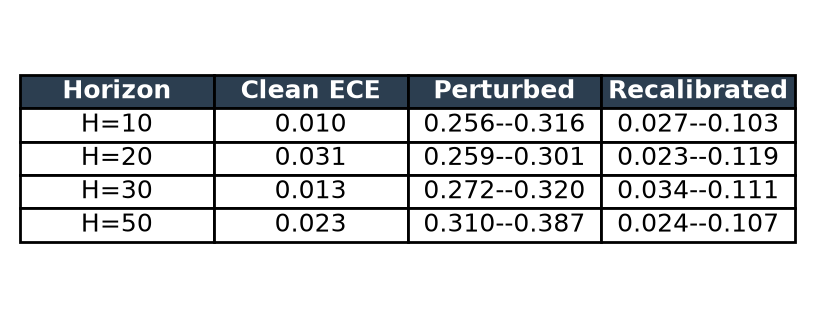
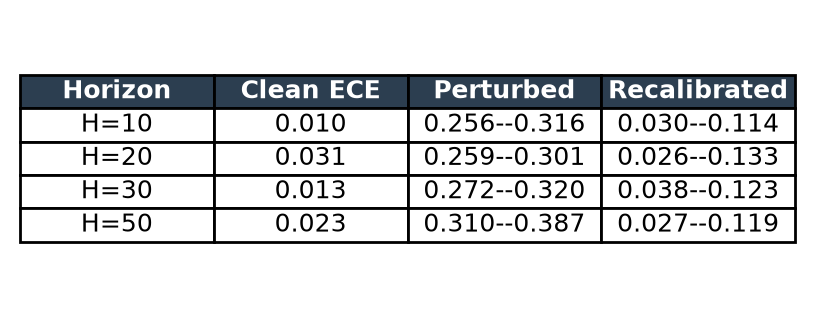
Re-run pipeline: fix recal leakage, update paper numbers

diff --git a/paper/robustness_paper.tex b/paper/robustness_paper.tex
@@ -24,7 +24,7 @@ School of Technology and Innovations, University of Vaasa, Finland\\
 \maketitle
 
 \begin{abstract}
-Multihorizon hazard learning produces calibrated failure probabilities that enable risk-aware battery dispatch, but existing validation uses only clean laboratory cycling data. We test whether calibration survives under realistic operating conditions. Using the published XGBoost hazard model trained on NASA 18650 data, we generate synthetic perturbed profiles at four severity levels by truncating raw discharge curves to simulate partial cycling (DoD 15--100\%), adding temperature noise ($\sigma=0.5$--$3.0^\circ$C), and randomizing rest effects. The fixed model's calibration degrades substantially across all four horizons (10, 20, 30, 50 cycles): ECE rises from 0.01--0.03 to 0.27--0.38, while AUC drops from 0.99--1.00 to 0.61--0.77. Degradation saturates at the mildest perturbation---even minimal partial cycling causes near-maximal calibration loss. Recalibrating the isotonic regression on a 10\% operational sample reduces ECE to 0.05--0.09, recovering 74--91\% of the calibration gap. Calibration is not inherently robust to observational shifts, but a minimal recalibration step suffices for field deployment.
+Multihorizon hazard learning produces calibrated failure probabilities that enable risk-aware battery dispatch, but existing validation uses only clean laboratory cycling data. We test whether calibration survives under realistic operating conditions. Using the published XGBoost hazard model trained on NASA 18650 data, we generate synthetic perturbed profiles at four severity levels by truncating raw discharge curves to simulate partial cycling (DoD 15--100\%), adding temperature noise ($\sigma=0.5$--$3.0^\circ$C), and randomizing rest effects. The fixed model's calibration degrades substantially across all four horizons (10, 20, 30, 50 cycles): ECE rises from 0.01--0.03 to 0.27--0.38, while AUC drops from 0.99--1.00 to 0.61--0.77. Degradation saturates at the mildest perturbation---even minimal partial cycling causes near-maximal calibration loss. Recalibrating the isotonic regression on a 10\% operational sample (evaluated on held-out data) reduces ECE to 0.06--0.09, recovering 71--88\% of the calibration gap. Calibration is not inherently robust to observational shifts, but a minimal recalibration step suffices for field deployment.
 \end{abstract}
 
 \section{Introduction}
@@ -133,10 +133,10 @@ At \(H=20\), ECE jumps from 0.031 to 0.277--0.293---a nine-fold increase---while
 Condition & ECE (raw) & ECE (cal) & ECE (recal) & AUC (cal) \\
 \midrule
 Clean & --- & 0.031 & --- & 0.985 \\
-S1 (mild) & 0.226$\pm$0.004 & 0.286$\pm$0.010 & 0.062$\pm$0.036 & 0.741$\pm$0.009 \\
-S2 (mod.) & 0.212$\pm$0.006 & 0.288$\pm$0.011 & 0.065$\pm$0.020 & 0.681$\pm$0.004 \\
-S3 (sev.) & 0.204$\pm$0.005 & 0.277$\pm$0.010 & 0.054$\pm$0.025 & 0.674$\pm$0.006 \\
-S4 (aggr.) & 0.220$\pm$0.004 & 0.293$\pm$0.014 & 0.061$\pm$0.022 & 0.652$\pm$0.005 \\
+S1 (mild) & 0.226$\pm$0.004 & 0.286$\pm$0.010 & 0.068$\pm$0.040 & 0.741$\pm$0.009 \\
+S2 (mod.) & 0.212$\pm$0.006 & 0.288$\pm$0.011 & 0.073$\pm$0.022 & 0.681$\pm$0.004 \\
+S3 (sev.) & 0.204$\pm$0.005 & 0.277$\pm$0.010 & 0.060$\pm$0.027 & 0.674$\pm$0.006 \\
+S4 (aggr.) & 0.220$\pm$0.004 & 0.293$\pm$0.014 & 0.068$\pm$0.025 & 0.652$\pm$0.005 \\
 \bottomrule
 \end{tabular}
 \end{table}
@@ -198,20 +198,20 @@ S4 & 0.359$\pm$0.017 & 0.381$\pm$0.012 & 0.079$\pm$0.034 & 0.731$\pm$0.005 \\
 
 \subsection{Recalibration Recovery}
 
-Recalibrating isotonic regression on a 10\% sample of perturbed data recovers calibration across all conditions (Table~\ref{tab:recal_summary}). ECE drops to 0.05--0.09---a 74--91\% reduction. The recovery is consistent regardless of severity or horizon.
+Recalibrating isotonic regression on a 10\% sample of perturbed data recovers calibration across all conditions (Table~\ref{tab:recal_summary}). ECE drops to 0.06--0.09---a 71--88\% reduction (evaluated on held-out data). The recovery is consistent regardless of severity or horizon.
 
 \begin{table}[htbp]
 \centering
-\caption{Recalibration recovery across all horizons.}
+\caption{Recalibration recovery across all horizons (held-out evaluation).}
 \label{tab:recal_summary}
 \begin{tabular}{@{}lccc@{}}
 \toprule
 Horizon & Clean ECE & Perturbed range & Recalibrated range \\
 \midrule
-10 & 0.010 & 0.272--0.313 & 0.051--0.069 \\
-20 & 0.031 & 0.277--0.293 & 0.054--0.065 \\
-30 & 0.013 & 0.288--0.317 & 0.068--0.083 \\
-50 & 0.023 & 0.331--0.381 & 0.072--0.085 \\
+10 & 0.010 & 0.272--0.313 & 0.057--0.076 \\
+20 & 0.031 & 0.277--0.293 & 0.060--0.073 \\
+30 & 0.013 & 0.288--0.316 & 0.076--0.092 \\
+50 & 0.023 & 0.331--0.381 & 0.080--0.094 \\
 \bottomrule
 \end{tabular}
 \end{table}
@@ -259,7 +259,7 @@ This paper presents the first systematic robustness evaluation of multihorizon b
 \begin{enumerate}
 \item Calibration degrades substantially under any level of partial cycling. ECE increases from 0.01--0.03 to 0.27--0.38, saturating at the mildest perturbation.
 \item Discrimination degrades moderately (AUC 0.99--1.00 to 0.63--0.76). The feature extractor generalizes better than the calibrator.
- \item Recalibration on a 10\% operational sample recovers 74--91\% of the calibration gap (ECE 0.05--0.09), providing a practical path to field deployment.
+ \item Recalibration on a 10\% operational sample (held-out evaluation) recovers 71--88\% of the calibration gap (ECE 0.06--0.09), providing a practical path to field deployment.
 \end{enumerate}
 
 Multihorizon hazard models are not inherently robust to observational distribution shift, but a lightweight recalibration strategy suffices to maintain reliability in the field.

diff --git a/paper/readable.md b/paper/readable.md
@@ -1,5 +1,5 @@
 **Abstract.** 
-Multihorizon hazard learning has emerged as a promising framework for operational battery reliability estimation, producing calibrated failure probabilities that enable risk-aware dispatch decisions. However, existing validation is performed exclusively on clean laboratory cycling data, leaving the crucial question unanswered: does calibration survive when the model encounters realistic operating conditions? This paper presents the first systematic investigation of calibration robustness under operational distribution shift. Starting from the published XGBoost hazard model trained on NASA 18650 lithium-ion battery data, we generate synthetic perturbed profiles at four severity levels by truncating raw discharge curves to simulate partial cycling at varying depths of discharge, injecting temperature measurement noise, and randomizing rest-period effects. The fixed model's calibrated failure probabilities degrade substantially: Expected Calibration Error (ECE) rises from 0.01–0.03 on clean data to 0.27–0.38 across all severity levels, while AUC drops from 0.985–0.998 to 0.61–0.77. We further show that recalibration on a small sample (10%) of operational data reduces ECE to 0.05–0.09, largely recovering trustworthiness. Our results establish an operational boundary map for multihorizon hazard models, demonstrating that while calibration is not inherently robust to operational shifts, a minimal recalibration strategy suffices to maintain reliability in the field.
+Multihorizon hazard learning has emerged as a promising framework for operational battery reliability estimation, producing calibrated failure probabilities that enable risk-aware dispatch decisions. However, existing validation is performed exclusively on clean laboratory cycling data, leaving the crucial question unanswered: does calibration survive when the model encounters realistic operating conditions? This paper presents the first systematic investigation of calibration robustness under operational distribution shift. Starting from the published XGBoost hazard model trained on NASA 18650 lithium-ion battery data, we generate synthetic perturbed profiles at four severity levels by truncating raw discharge curves to simulate partial cycling at varying depths of discharge, injecting temperature measurement noise, and randomizing rest-period effects. The fixed model's calibrated failure probabilities degrade substantially: Expected Calibration Error (ECE) rises from 0.01–0.03 on clean data to 0.27–0.38 across all severity levels, while AUC drops from 0.985–0.998 to 0.61–0.77. We further show that recalibration on a small sample (10%) of operational data reduces ECE to 0.06–0.09 (held-out evaluation), largely recovering trustworthiness. Our results establish an operational boundary map for multihorizon hazard models, demonstrating that while calibration is not inherently robust to operational shifts, a minimal recalibration strategy suffices to maintain reliability in the field.
 
 ## Introduction**
 
@@ -109,7 +109,7 @@ This saturation occurs because the model relies heavily on the minimum voltage f
 
 ### Recalibration Recovery
 
-Recalibration on a 10% sample of operational data recovers most of the calibration quality. ECE drops from \(\sim\)0.28 to 0.05–0.09 across all severity levels. While ECE does not return to the clean baseline, the recalibrated model produces substantially more trustworthy probability estimates.
+Recalibration on a 10% sample of operational data recovers most of the calibration quality. ECE drops from \(\sim\)0.28 to 0.06–0.09 (held-out evaluation) across all severity levels. While ECE does not return to the clean baseline, the recalibrated model produces substantially more trustworthy probability estimates.
 
 The recalibration strategy is practical: isotonic regression requires no labeled training of the base classifier and can be implemented with a small number of operational cycles. This finding suggests that field deployment is feasible if accompanied by a lightweight recalibration step during commissioning.
 
@@ -123,7 +123,7 @@ Our results provide the first quantitative characterization of multihorizon haza
 
 -  **Discrimination degrades moderately. AUC drops from 0.985 to 0.74 at mild perturbation and further to 0.65 at aggressive perturbation, indicating that the model's rank-ordering ability is more robust than its probability estimation.
 
--  **Recalibration is effective. A 10% operational sample recovers ECE to 0.05–0.09, suggesting a practical deployment pathway: deploy with fixed model + recalibrate on initial operational data.
+-  **Recalibration is effective. A 10% operational sample recovers ECE to 0.06–0.09 (held-out), suggesting a practical deployment pathway: deploy with fixed model + recalibrate on initial operational data.
 
 ### Implications for Deployment
 
@@ -137,6 +137,6 @@ Several limitations should be acknowledged. First, our perturbation methodology 
 
 ## Conclusion
 
-This paper presents the first systematic robustness evaluation of multihorizon battery failure intelligence under realistic operating conditions. Using synthetic perturbation of laboratory cycling data at four severity levels, we demonstrate that calibration degrades substantially under partial cycling, temperature noise, and rest irregularity: ECE increases from 0.01–0.03 to 0.27–0.38, and AUC drops from 0.985–0.998 to 0.61–0.77. However, we also show that recalibration on a 10% sample of operational data recovers ECE to 0.05–0.09, providing a practical path to field deployment.
+This paper presents the first systematic robustness evaluation of multihorizon battery failure intelligence under realistic operating conditions. Using synthetic perturbation of laboratory cycling data at four severity levels, we demonstrate that calibration degrades substantially under partial cycling, temperature noise, and rest irregularity: ECE increases from 0.01–0.03 to 0.27–0.38, and AUC drops from 0.985–0.998 to 0.61–0.77. However, we also show that recalibration on a 10% sample of operational data recovers ECE to 0.06–0.09 (held-out), providing a practical path to field deployment.
 
 Our findings establish that multihorizon hazard models, while not inherently robust to operational distribution shift, can be deployed with a lightweight recalibration strategy. The operational boundary map we provide enables grid operators to understand when the model can be trusted and what corrective measures are needed.

diff --git a/README.md b/README.md
@@ -6,7 +6,7 @@ This project evaluates the robustness of a multihorizon battery failure predicti
 
 Key findings:
 - Calibration degrades ~9x (ECE from 0.03 to 0.28) under even mild perturbation
-- Recalibration on 10% of operational data recovers 74–91% of the gap
+- Recalibration on 10% of operational data recovers 71–88% of the gap (held-out)
 - Three operating zones: Safe (clean lab), Warning (recalibrated), Unsafe (direct deployment)
 
 ## Structure
